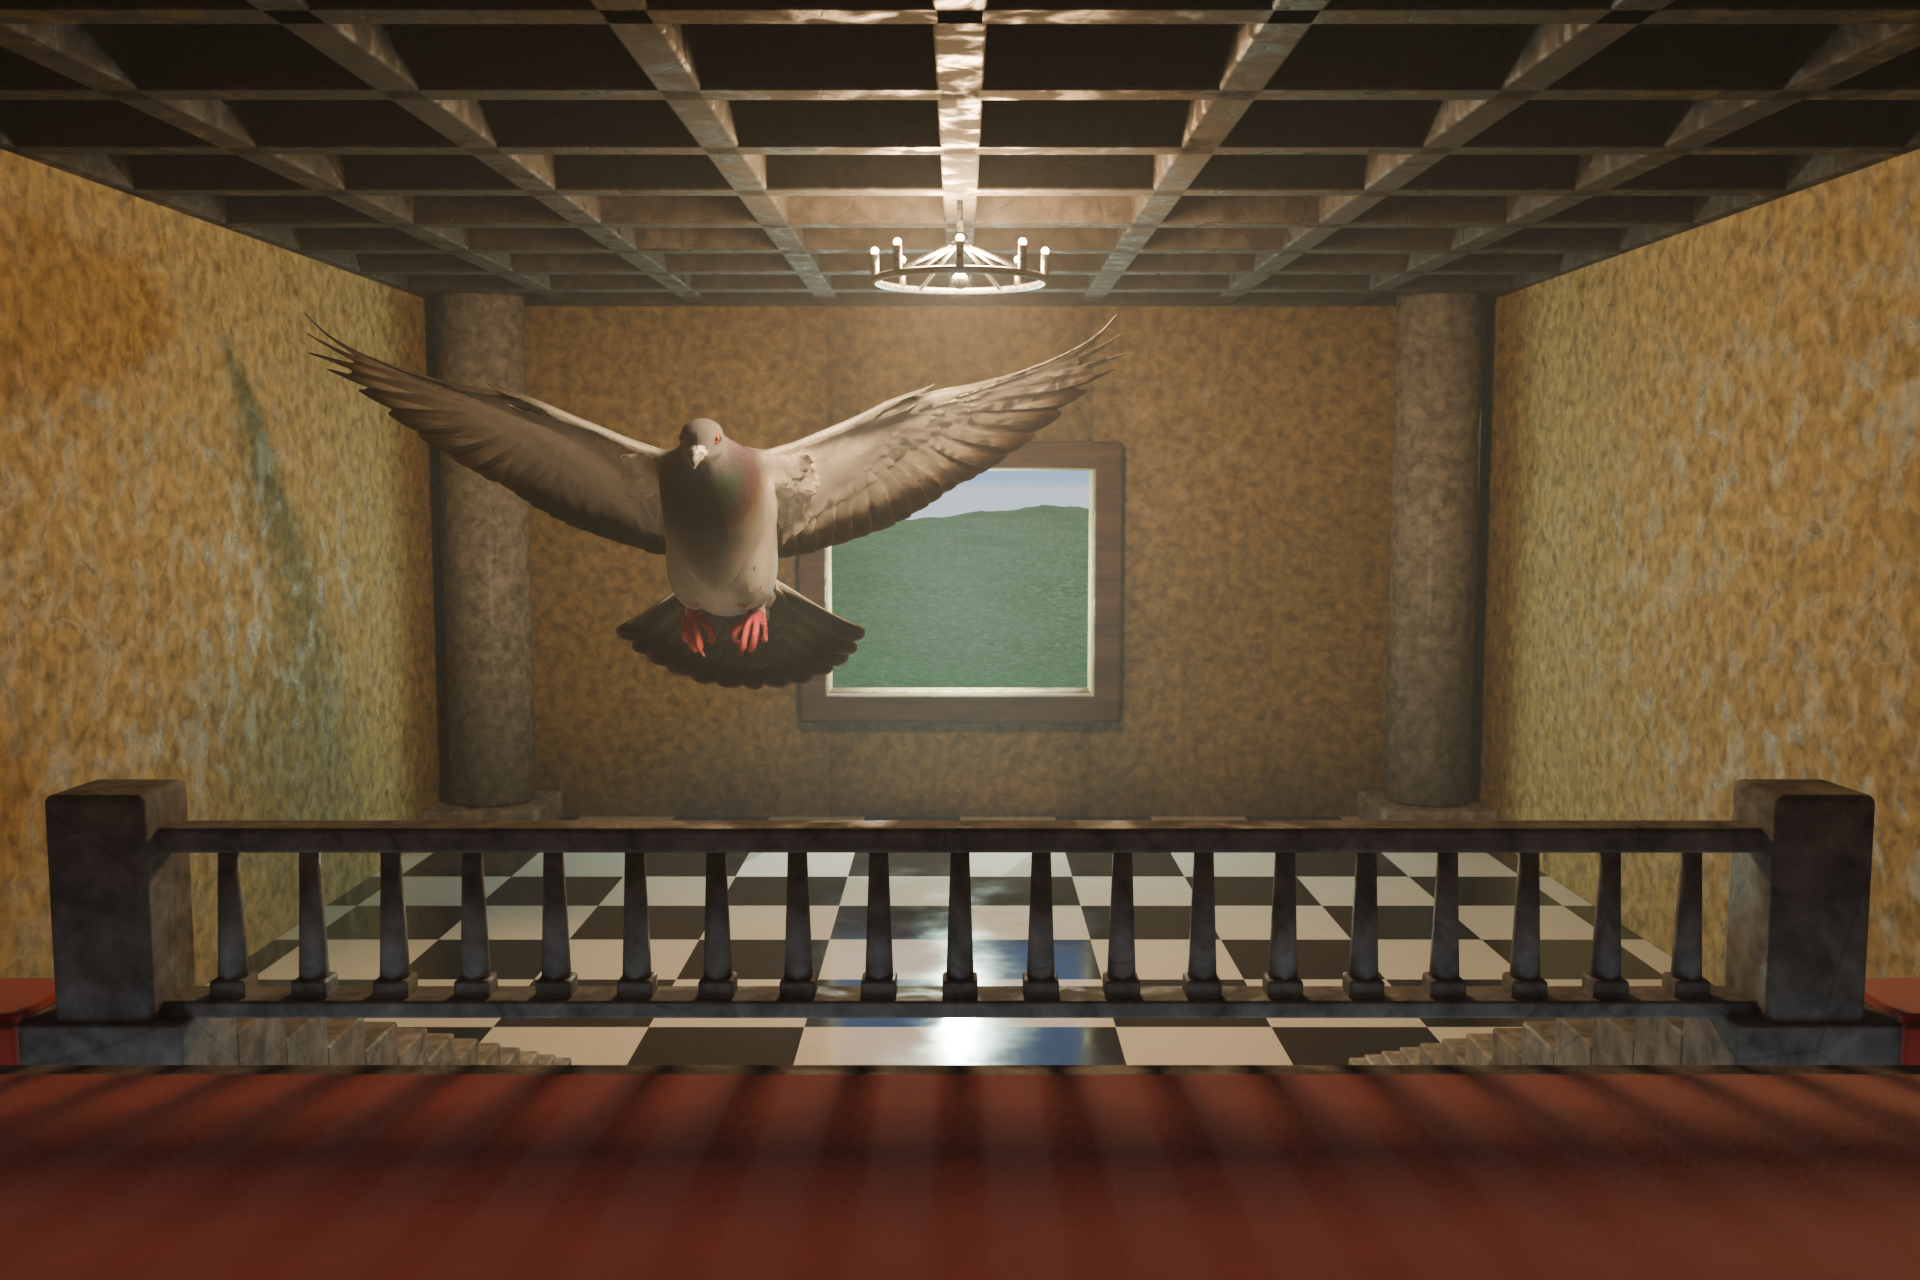
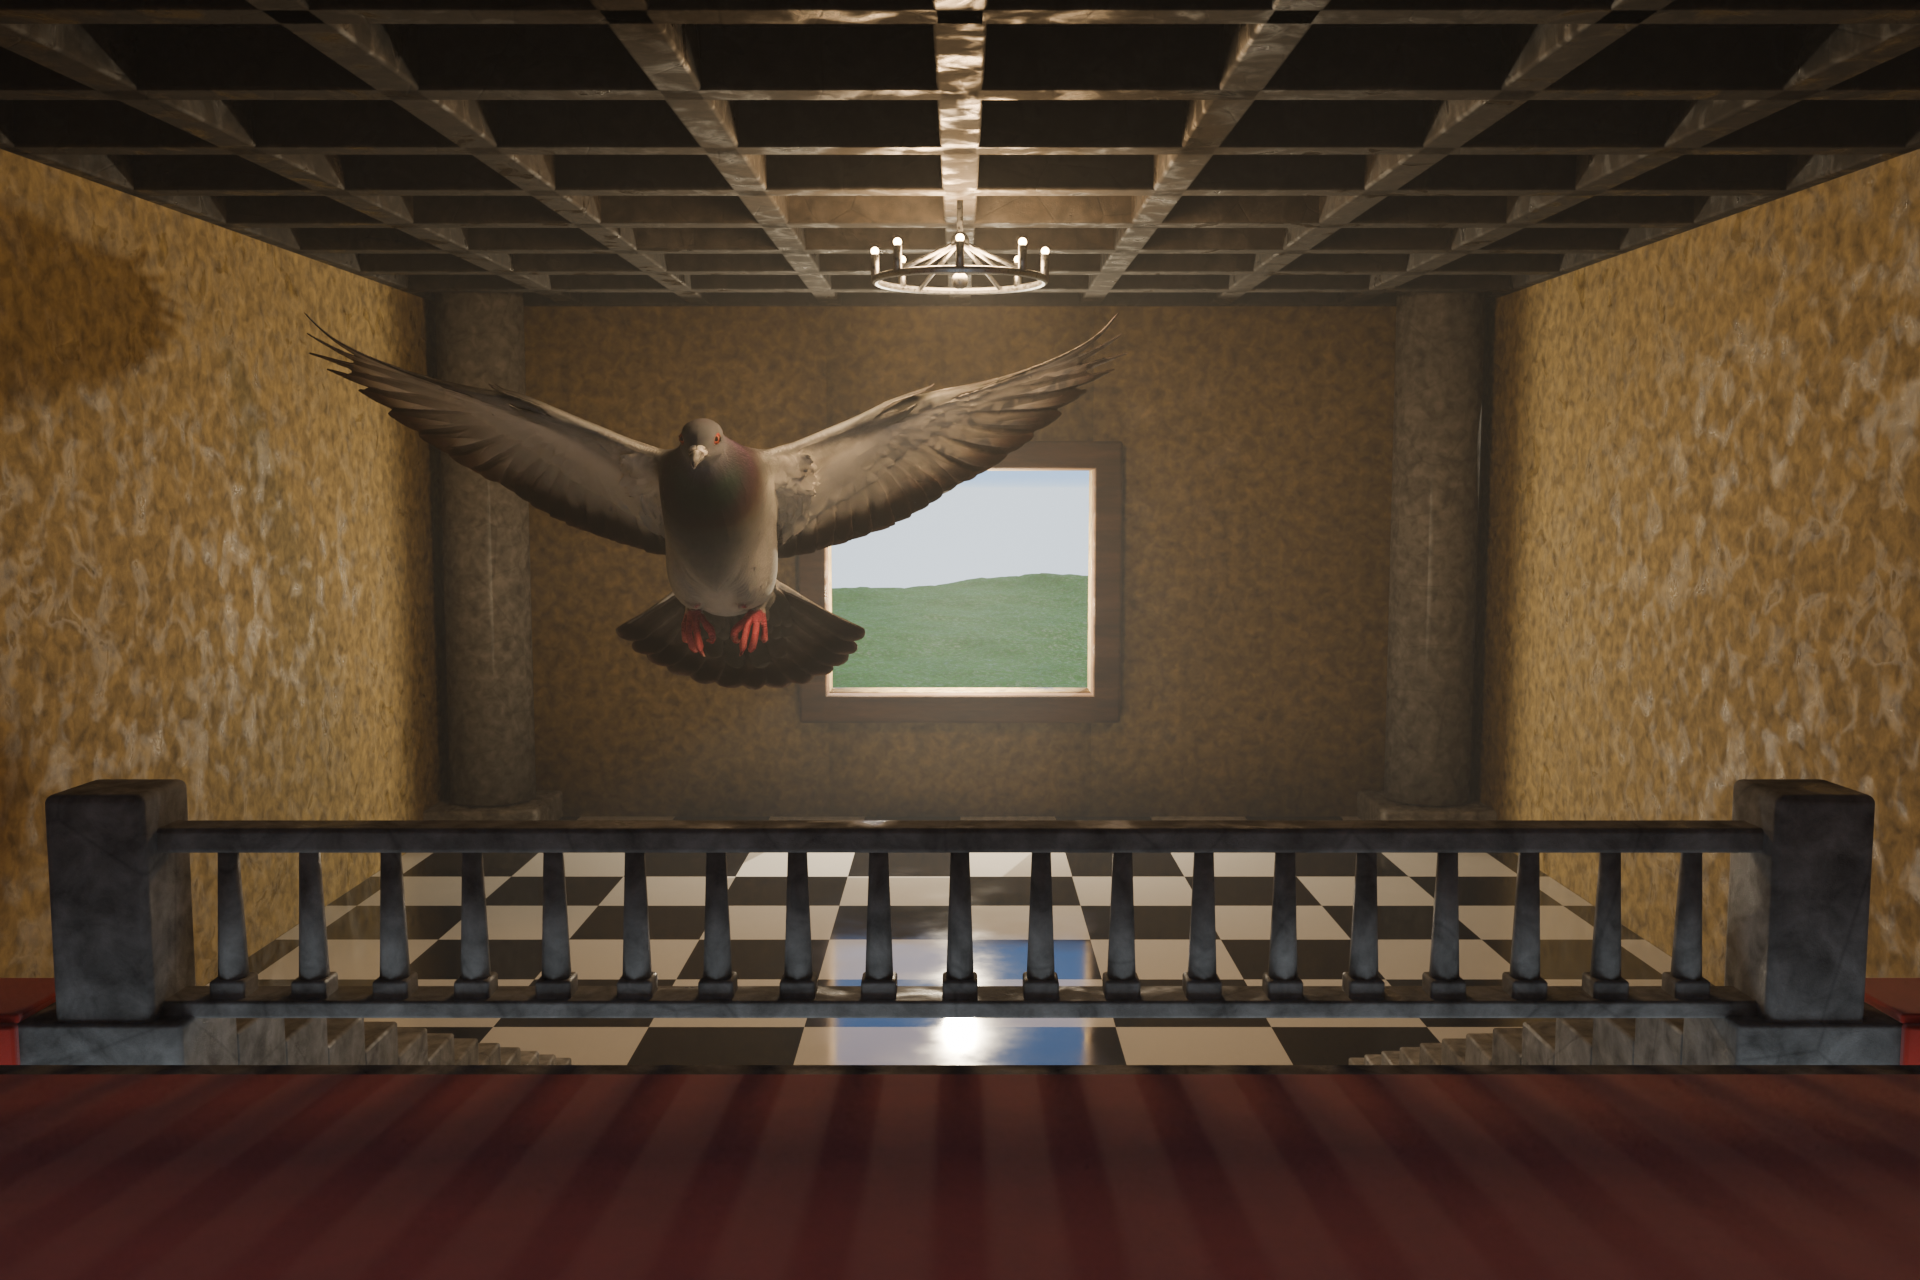
Half sky, warm light, and the colour back on the floor
The horizon is at 50.0% of the opening, measured, down from 20. Eleven
metres of drop got it there, and the reason it is a drop rather than a push
is worth writing down: the horizon in a window is set by how far *below* the
sill the ground is, not by how far away it is. Move ground further off and
its horizon only climbs toward eye level. Move it down and the horizon falls
where you put it.

    before   skyline 20.0% down the opening, at 249 m, z +2.2
    after    skyline 50.0% down the opening, at 249 m, z -8.7

The chandelier is down from 3200 to 1150 and the light through the opening
is warm.

And the coloured patch on the chequer is back, which took no coloured light
at all. It was never a light -- it is the polished floor reflecting the
opening, and it stopped happening when the picture stopped being an emissive
panel and became a view that was dimmer than the room. Sun to 4.2, sky to
1.2, chandelier down, chequer roughness 0.055 to 0.038: bright outside, dim
inside, and the tiles mirror grass and sky across themselves. The stained
glass was always a reflection.

diff --git a/art/blender/scenes.py b/art/blender/scenes.py
@@ -2105,7 +2105,7 @@ def painted_hall(path):
     # and at 0.45 most of a deep red is a dark red, which is brown.
     carpet = look.heavy_cloth("Carpet", colour=(0.690, 0.0570, 0.0350, 1.0),
                               fade=0.80, seed=6)
-    tiles = look.checker("Chequer", square=0.95, roughness=0.055,
+    tiles = look.checker("Chequer", square=0.95, roughness=0.038,
                          dark=(0.009, 0.009, 0.011, 1.0),
                          pale=(0.520, 0.505, 0.480, 1.0))
     # Oak, and the grain runs along one axis rather than mottling in all
@@ -2248,8 +2248,13 @@ def painted_hall(path):
     # the top half of the opening with rock, where the whole point of cutting
     # a hole in a wall is that there is sky through it. Nothing past 295 m
     # now, so above the near hill's own skyline there is only the dome.
+    # Down another eleven metres. Ray-sampled, the skyline sat 20% down
+    # the opening and the ask was half and half -- and the horizon in a
+    # window is set by how far *below* the sill the ground is, not by
+    # how far away it is. Push it further off and the horizon only
+    # climbs toward eye level; drop it and it falls where you want it.
     terrain(size=260, resolution=220, kind="hetero", height=2.6, seed=17.3,
-            offset=0.86, origin=(0, 165, -6.6), material=turf)
+            offset=0.86, origin=(0, 165, -17.5), material=turf)
     # The frame, four members rather than a slab with a hole in it.
     for dx, dz, w, h in ((0, VIEW_H / 2 + 0.28, VIEW_W + 1.12, 0.56),
                          (0, -VIEW_H / 2 - 0.28, VIEW_W + 1.12, 0.56),
@@ -2271,7 +2276,7 @@ def painted_hall(path):
                     look.glowing("Candle", colour=(1.0, 0.660, 0.300, 1.0),
                                  strength=26.0),
                     drop=1.30, radius=1.05, candles=8, legs=6,
-                    energy=3200)
+                    energy=1150)
 
     # --- and something that just came through -------------------------
     #
@@ -2305,8 +2310,8 @@ def painted_hall(path):
     # life size rather than the two-and-a-half-times smear any lamp in this
     # room would make of it. Eleven metres of bird across a floor whose tiles
     # are just under two.
-    look.sun((math.radians(-41.8), 0, math.radians(-18.0)), energy=2.3,
-             angle=0.006, color=(1.0, 0.945, 0.845))
+    look.sun((math.radians(-41.8), 0, math.radians(-18.0)), energy=4.2,
+             angle=0.006, color=(1.0, 0.885, 0.680))
     # 3.4, not 4.6: the grass is translucent and backlit through this
     # opening, so it lights up rather than merely being lit, and at 4.6
     # the hill came back nearer white than green.
@@ -2317,7 +2322,7 @@ def painted_hall(path):
                           (0.12, (0.330, 0.545, 0.860)),
                           (0.45, (0.120, 0.320, 0.760)),
                           (1.00, (0.035, 0.130, 0.480))],
-                   strength=0.68, bend=2.2,
+                   strength=1.20, bend=2.2,
                    cloud_colour=(0.97, 0.97, 0.98), cloud_amount=0.42,
                    cloud_scale=2.2, cloud_sharpness=(0.50, 0.72), seed=11.0)
 
@@ -2327,8 +2332,8 @@ def painted_hall(path):
     # so the shape of the light is the shape of the frame without a spot
     # cone having to be aimed at anything. A hint of green in it, from the
     # field it is supposed to be coming off.
-    look.point_light((0.0, 24.62, VIEW_Z + VIEW_H * 0.45), energy=2400,
-                     radius=0.30, color=(0.735, 1.0, 0.790))
+    look.point_light((0.0, 24.62, VIEW_Z + VIEW_H * 0.45), energy=3400,
+                     radius=0.30, color=(1.0, 0.820, 0.560))
 
     # The air stops at the wall. Left running to y=32 it enclosed the beam
     # lamp, which then lit the volume around itself and hung a glowing ball
